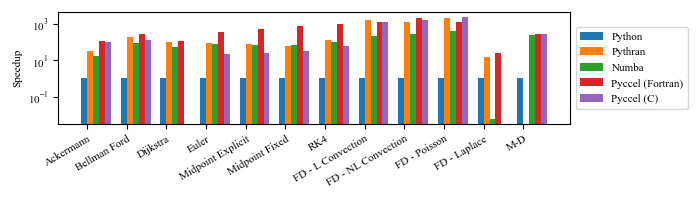
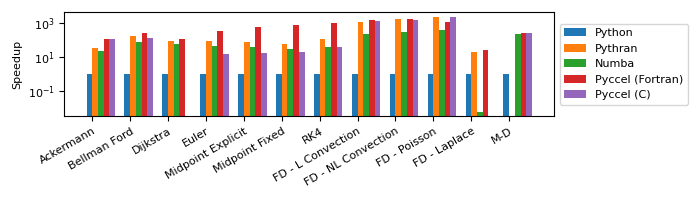
Update performance comparison

diff --git a/version_specific_results/devel_performance_310.md b/version_specific_results/devel_performance_310.md
@@ -1,32 +1,32 @@
-### Performance Comparison (as of Wed Nov 16 20:48:57 UTC 2022)
+### Performance Comparison (as of Mon Nov 21 11:59:46 UTC 2022)
 ## Compilation time
 Algorithm                 | python                    | pythran                   | numba                     | pyccel                    | pyccel_c                 
 ------------------------- | ------------------------- | ------------------------- | ------------------------- | ------------------------- | -------------------------
-Ackermann                 | -                         | 2.10                      | 0.28                      | 1.02                      | 0.98                     
-Bellman Ford              | -                         | 2.34                      | 0.76                      | 1.47                      | 1.41                     
-Dijkstra                  | -                         | 2.37                      | 1.00                      | 1.52                      | -                        
-Euler                     | -                         | 2.77                      | 0.85                      | 1.50                      | 1.44                     
-Midpoint Explicit         | -                         | 3.45                      | 1.21                      | 1.76                      | 1.69                     
-Midpoint Fixed            | -                         | 4.08                      | 1.28                      | 1.81                      | 1.76                     
-RK4                       | -                         | 3.98                      | 1.32                      | 2.22                      | 2.14                     
-FD - L Convection         | -                         | 2.08                      | 0.24                      | 1.38                      | 1.37                     
-FD - NL Convection        | -                         | 2.07                      | 0.24                      | 1.38                      | 1.37                     
-FD - Poisson              | -                         | 6.26                      | 0.54                      | 1.46                      | 1.45                     
-FD - Laplace              | -                         | 10.00                     | 1.12                      | 1.99                      | -                        
-M-D                       | -                         | -                         | 2.58                      | 2.30                      | 2.07                     
+Ackermann                 | -                         | 3.12                      | 0.39                      | 1.51                      | 1.40                     
+Bellman Ford              | -                         | 3.59                      | 1.13                      | 2.32                      | 2.16                     
+Dijkstra                  | -                         | 3.52                      | 1.44                      | 2.29                      | -                        
+Euler                     | -                         | 4.06                      | 1.51                      | 2.23                      | 2.18                     
+Midpoint Explicit         | -                         | 5.16                      | 2.60                      | 2.59                      | 2.55                     
+Midpoint Fixed            | -                         | 6.15                      | 2.97                      | 2.70                      | 2.64                     
+RK4                       | -                         | 6.21                      | 3.00                      | 3.26                      | 3.33                     
+FD - L Convection         | -                         | 3.16                      | 0.37                      | 2.08                      | 2.08                     
+FD - NL Convection        | -                         | 3.11                      | 0.37                      | 2.12                      | 2.15                     
+FD - Poisson              | -                         | 10.15                     | 0.88                      | 2.26                      | 2.29                     
+FD - Laplace              | -                         | 16.54                     | 2.08                      | 2.96                      | -                        
+M-D                       | -                         | -                         | 6.38                      | 3.43                      | 3.12                     
 
 ## Execution time
 Algorithm                 | python                    | pythran                   | numba                     | pyccel                    | pyccel_c                 
 ------------------------- | ------------------------- | ------------------------- | ------------------------- | ------------------------- | -------------------------
-Ackermann (ms)            | 314.00                    | 10.20                     | 18.00                     | 2.62                      | 3.04                     
-Bellman Ford (ns)         | 45700.00                  | 242.00                    | 480.00                    | 157.00                    | 351.00                   
-Dijkstra (ns)             | 22200.00                  | 222.00                    | 421.00                    | 195.00                    | -                        
-Euler (\textmu s)         | 38400.00                  | 412.00                    | 475.00                    | 112.00                    | 1770.00                  
-Midpoint Explicit (ms)    | 78.70                     | 0.97                      | 1.07                      | 0.15                      | 3.00                     
-Midpoint Fixed (ms)       | 409.00                    | 6.26                      | 5.94                      | 0.54                      | 12.20                    
-RK4 (ms)                  | 204.00                    | 1.61                      | 2.08                      | 0.20                      | 3.46                     
-FD - L Convection (ms)    | 1610.00                   | 0.98                      | 7.29                      | 1.21                      | 1.19                     
-FD - NL Convection (ms)   | 2010.00                   | 1.46                      | 7.16                      | 0.92                      | 1.28                     
-FD - Poisson (ms)         | 3310.00                   | 1.53                      | 7.60                      | 2.65                      | 1.37                     
-FD - Laplace (\textmu s)  | 32.40                     | 2.08                      | 5470.00                   | 1.27                      | -                        
-M-D (ms)                  | 39100.00                  | -                         | 160.00                    | 133.00                    | 146.00                   
+Ackermann (ms)            | 432.00                    | 13.00                     | 20.00                     | 3.70                      | 3.75                     
+Bellman Ford (ns)         | 68000.00                  | 410.00                    | 900.00                    | 248.00                    | 545.00                   
+Dijkstra (ns)             | 34400.00                  | 386.00                    | 600.00                    | 305.00                    | -                        
+Euler (ms)                | 54.50                     | 0.61                      | 1.17                      | 0.16                      | 3.46                     
+Midpoint Explicit (ms)    | 108.00                    | 1.42                      | 2.81                      | 0.19                      | 6.07                     
+Midpoint Fixed (ms)       | 548.00                    | 9.18                      | 18.70                     | 0.71                      | 27.60                    
+RK4 (ms)                  | 271.00                    | 2.37                      | 6.83                      | 0.28                      | 7.50                     
+FD - L Convection (ms)    | 2530.00                   | 2.03                      | 11.00                     | 1.71                      | 1.97                     
+FD - NL Convection (ms)   | 3060.00                   | 1.85                      | 10.40                     | 1.73                      | 1.87                     
+FD - Poisson (ms)         | 5070.00                   | 2.33                      | 12.10                     | 4.47                      | 2.11                     
+FD - Laplace (\textmu s)  | 54.10                     | 2.74                      | 9570.00                   | 2.17                      | -                        
+M-D (ms)                  | 53500.00                  | -                         | 249.00                    | 202.00                    | 209.00                   
